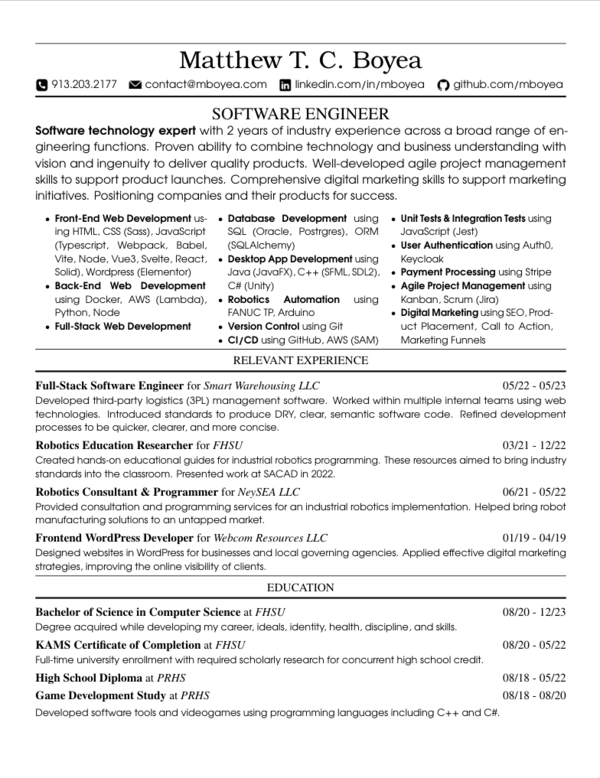
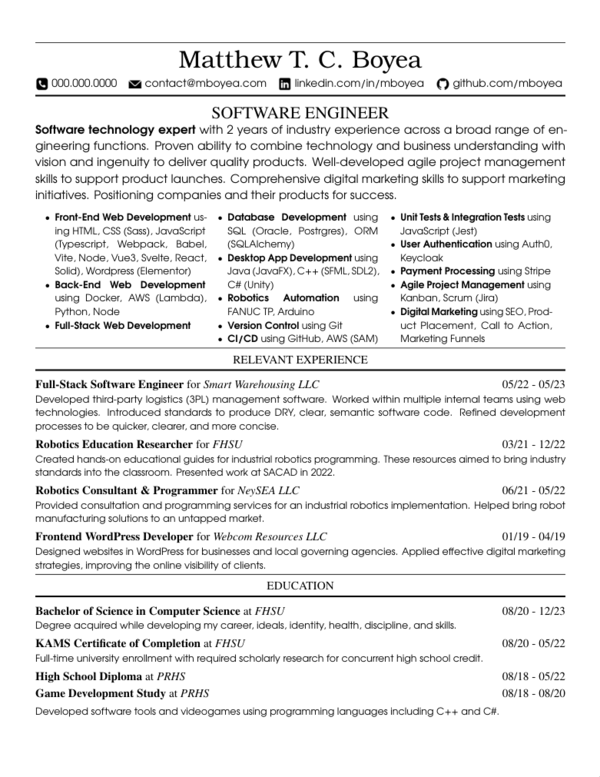
re-wrote resume summary

Changed region(s): [[0.06, 0.0618, 0.96, 0.9266], [0.84, 0.8649, 0.96, 0.8958]]

diff --git a/src/resume.tex b/src/resume.tex
@@ -2,14 +2,14 @@
 %%% CUSTOM COMMANDS %%%
 
 % center the contents inline - intended to center images
-\newcommand{\centerinline}[1]{$$\vcenter{\hbox{#1}}$$}
+\newcommand{\inlineicon}[1]{$$\vcenter{\hbox{#1}}\;$$}
 
 %%% END CUSTOM COMMANDS %%%
 
 %%% CUSTOM DOCUMENT STYLES %%%
 
 % set paper size & font size
-\documentclass[12pt,letterpaper]{report}
+\documentclass[11pt,letterpaper]{report}
 % set margins
 \usepackage[margin=0.5in]{geometry}
 % set line spacing
@@ -56,34 +56,34 @@
 \makeatother
 % set chapter heading styles
 \titleformat{\chapter}[hang]
-{\altrmfamily\centering\huge}
+{\altrmfamily\centering\Huge}
 {}
 {0pt}
 {\titlerule[0.6pt]\vspace{-0.3em}}[]
 \titlespacing{\chapter}
 {0pt}
 {-0.4em}
-{-0.8em}[0pt]
+{-1.0em}[0pt]
 % set section heading styles
 \titleformat{\section}[hang]
-{\rmfamily\centering\Large}
+{\rmfamily\centering\LARGE}
 {}
 {0pt}
 {\titlerule[1.6pt]\vspace{-0.2em}}[]
 \titlespacing{\section}
 {0pt}
-{1.0em}
+{1.2em}
 {-0.1em}[0pt]
 % set subsection heading styles
 \titleformat{\subsection}[hang]
-{\rmfamily\centering\normalsize}
+{\rmfamily\centering\Large}
 {}
 {0pt}
 {\titlerule[0.6pt]\vspace{-0.4em}}[{\vspace{0.1em}\titlerule[1.6pt]}]
 \titlespacing{\subsection}
 {0pt}
-{1.2em}
-{0.6em}[0pt]
+{1.5em}
+{0.5em}[0pt]
 % set subsubsection heading styles
 \titleformat{\subsubsection}[hang]
 {\rmfamily\normalsize}

diff --git a/src/resume.md b/src/resume.md
@@ -8,19 +8,21 @@ keywords: [resume, cv, markdown, latex, software, engineer, programmer, matthew,
 ---
 # Matthew T. C. Boyea
 
-`{\small`{=latex}
-[`\centerinline{`{=latex}![Phone icon}](media/icons8-phone-500.png){.center-inline height=1.25em}`}`{=latex} 913.203.2177](tel:9132032177)\hfill
-[`\centerinline{`{=latex}![Email icon](media/icons8-email-90.png){.center-inline height=1.225em}`}`{=latex} contact@mboyea.com](mailto:contact@mboyea.com)\hfill
-[`\centerinline{`{=latex}![LinkedIn icon](media/icons8-linkedin-500.png){.center-inline height=1.25em}`}`{=latex} linkedin.com/in/mboyea](https://www.linkedin.com/in/mboyea/)\hfill
-[`\centerinline{`{=latex}![GitHub icon](media/icons8-github-144.png){.center-inline height=1.3em}`}`{=latex} github.com/mboyea](https://github.com/mboyea)
-`}`{=latex}
-
-[comment]: # (icons from https://icons8.com/)
+[`\inlineicon{`{=latex}![Phone icon.](media/icons8-phone-500.png){.inline-icon height=1.25em}`}`{=latex}913.203.2177](tel:9132032177)\hfill
+[`\inlineicon{`{=latex}![Email icon.](media/icons8-email-90.png){.inline-icon height=1.225em}`}`{=latex}contact@mboyea.com](mailto:contact@mboyea.com)\hfill
+[`\inlineicon{`{=latex}![LinkedIn icon.](media/icons8-linkedin-500.png){.inline-icon height=1.25em}`}`{=latex}linkedin.com/in/mboyea](https://www.linkedin.com/in/mboyea/)\hfill
+[`\inlineicon{`{=latex}![GitHub icon.](media/icons8-github-144.png){.inline-icon height=1.3em}`}`{=latex}github.com/mboyea](https://github.com/mboyea)
 
 ## SOFTWARE ENGINEER
-**Software technology expert** with 2 years of industry experience across a broad range of engineering functions. Proven ability to combine technology and business understanding with vision and ingenuity to deliver quality products. Well-developed agile project management skills to support product launches. Comprehensive digital marketing skills to support marketing initiatives. Positioning companies and their products for success.
 
-`{\footnotesize`{=latex}
+`{\large`{=latex}
+
+**Software technology expert with 5 years of diverse experience** harmonizing tech and business prerogatives to deliver quality products.
+Highly skilled in fostering positive relationships and facilitating efficient communication.
+Dedicated to ensuring company and product success.
+
+`}`{=latex}
+
 `\begin{minipage}[t]{0.33\textwidth}`{=latex}
 
 - **Front-End Web Development** using HTML, CSS (Sass), JavaScript (Typescript, Webpack, Babel, Vite, Node, Vue3, Svelte, React, Solid), Wordpress (Elementor)
@@ -49,7 +51,8 @@ JavaScript (Jest)
 
 `\end{minipage}`{=latex}
 
-### RELEVANT EXPERIENCE
+### EXPERIENCE
+
 #### **Full-Stack Software Engineer** for *Smart Warehousing LLC* \hfill 05/22 - 05/23
 
 Developed third-party logistics (3PL) management software. Worked within multiple internal teams using web technologies. Introduced standards to produce DRY, clear, semantic software code. Refined development processes to be quicker, clearer, and more concise.
@@ -66,7 +69,14 @@ Provided consultation and programming services for an industrial robotics implem
 
 Designed websites in WordPress for businesses and local governing agencies. Applied effective digital marketing strategies, improving the online visibility of clients.
 
+Proficient in agile project management to facilitate smooth product launches.
+Skilled in debugging both functionality and performance of software products.
+Comprehensive understanding of digital marketing strategies to drive effective marketing campaigns.
+Capable of delivering impactful product presentations.
+Practiced in writing quality documentation for both developers and users.
+
 ### EDUCATION
+
 #### **Bachelor of Science in Computer Science** at *FHSU* \hfill 08/20 - 12/23
 
 Degree acquired while developing my career, ideals, identity, health, discipline, and skills.
@@ -80,5 +90,4 @@ Full-time university enrollment with required scholarly research for concurrent 
 #### **Game Development Study** at *PRHS* \hfill 08/18 - 08/20
 
 Developed software tools and videogames using programming languages including C++ and C#.
-`}`{=latex}
 

diff --git a/archive/2024-02/src/resume.md b/archive/2024-02/src/resume.md
@@ -9,7 +9,7 @@ keywords: [resume, cv, markdown, latex, software, engineer, programmer, matthew,
 # Matthew T. C. Boyea
 
 `{\small`{=latex}
-[`\centerinline{`{=latex}![Phone icon}](media/icons8-phone-500.png){.center-inline height=1.25em}`}`{=latex} 913.203.2177](tel:9132032177)\hfill
+[`\centerinline{`{=latex}![Phone icon}](media/icons8-phone-500.png){.center-inline height=1.25em}`}`{=latex} 000.000.0000](tel:0000000000)\hfill
 [`\centerinline{`{=latex}![Email icon](media/icons8-email-90.png){.center-inline height=1.225em}`}`{=latex} contact@mboyea.com](mailto:contact@mboyea.com)\hfill
 [`\centerinline{`{=latex}![LinkedIn icon](media/icons8-linkedin-500.png){.center-inline height=1.25em}`}`{=latex} linkedin.com/in/mboyea](https://www.linkedin.com/in/mboyea/)\hfill
 [`\centerinline{`{=latex}![GitHub icon](media/icons8-github-144.png){.center-inline height=1.3em}`}`{=latex} github.com/mboyea](https://github.com/mboyea)
